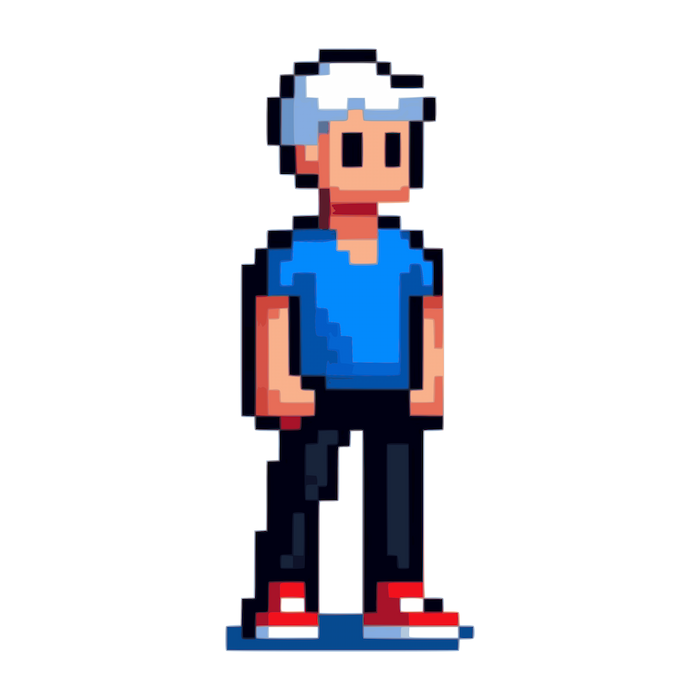
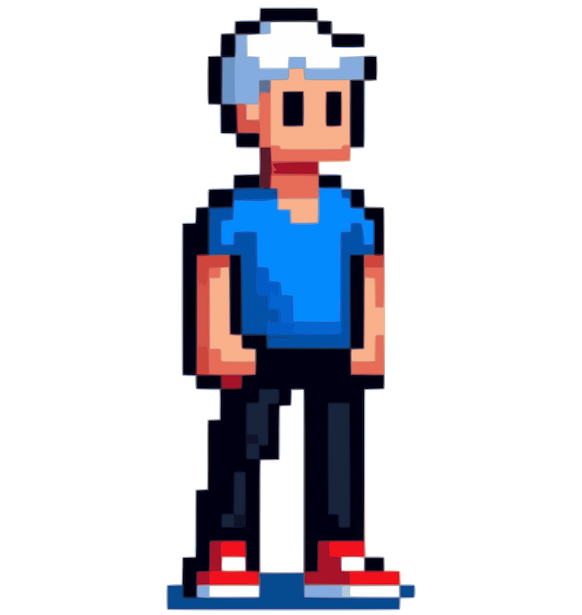
fix: logs

Changed region(s): [[0.2784, 0.0, 0.7113, 1.0]]

diff --git a/src/js/view/ViewBattle.js b/src/js/view/ViewBattle.js
@@ -111,9 +111,13 @@ dealing <span class="accent-attack">${damage}</span> <span class="color-red">dam
         result;
 
       const attackerClass =
-        result.attackerType === 'player' ? 'accent-defence' : 'accent-attack';
+        result.attackerType === 'player'
+          ? 'color-player-text'
+          : 'color-enemy-text';
       const targetClass =
-        result.targetType === 'player' ? 'accent-defence' : 'accent-attack';
+        result.targetType === 'player'
+          ? 'color-player-text'
+          : 'color-enemy-text';
       const logEntry =
         result.attackerType === 'player'
           ? 'player-attack-log'
@@ -121,18 +125,18 @@ dealing <span class="accent-attack">${damage}</span> <span class="color-red">dam
 
       log.classList.add(logEntry);
 
-      let markup = `<span class="damage-pulse ${attackerClass}">${attackerName}</span> attacked <span class="damage-pulse ${targetClass}">${targetName}</span> to <span class="accent-defence">${zone}</span> and ${
+      let markup = `<span class="damage-pulse ${attackerClass}">${attackerName}</span> attacked <span class="damage-pulse ${targetClass}">${targetName}</span> to <span class="highlight-text">${zone}</span> and ${
         isCrit && !blocked
           ? '<span class="color-peach-stroke damage-flash">CRIT</span>'
           : 'dealt'
       } <span class="accent-attack shake">${damage}</span> <span class="color-red damage-shake">damage</span>`;
 
       if (blocked && !isCrit) {
-        markup = `<span class="${attackerClass} damage-pulse">${attackerName}</span> attacked <span class="${targetClass} damage-pulse">${targetName}</span> to <span class="accent-defence">${zone}</span> but <span class="${targetClass} damage-pulse">${targetName}</span> was able to protect his <span class="accent-defence">${zone}</span>`;
+        markup = `<span class="${attackerClass} damage-pulse">${attackerName}</span> attacked <span class="${targetClass} damage-pulse">${targetName}</span> to <span class="highlight-text">${zone}</span> but <span class="${targetClass} damage-pulse">${targetName}</span> was able to protect his <span class="highlight-text">${zone}</span>`;
       }
 
       if (blocked && isCrit) {
-        markup = `<span class="${attackerClass} damage-pulse">${attackerName}</span> attacked <span class="${targetClass} damage-pulse">${targetName}'s</span> <span class="accent-defence">${zone}</span>. 
+        markup = `<span class="${attackerClass} damage-pulse">${attackerName}</span> attacked <span class="${targetClass} damage-pulse">${targetName}'s</span> <span class="highlight-text">${zone}</span>. 
 <span class="damage-pulse ${targetClass}">${targetName}</span> tried to block, but <span class="damage-pulse ${attackerClass}">${attackerName}</span> <span class="color-peach-stroke damage-flash">crit</span> through the block, 
 dealing <span class="accent-attack shake">${damage}</span> <span class="color-red damage-shake">damage!</span>`;
       }
@@ -141,11 +145,11 @@ dealing <span class="accent-attack shake">${damage}</span> <span class="color-re
       // logsEl.appendChild(log);
       logsEl.insertAdjacentElement('afterbegin', log);
 
-      // await this._typeHTML(log, markup, 1);
+      await this._typeHTML(log, markup, 6, 8);
 
       // logsEl.scrollTop = logsEl.scrollHeight;
       document.insertAdjacent;
-      await new Promise(resolve => setTimeout(resolve, 50));
+      await new Promise(resolve => setTimeout(resolve, 20));
     }
   }
 
@@ -154,15 +158,17 @@ dealing <span class="accent-attack shake">${damage}</span> <span class="color-re
     logsEl.innerHTML = '';
   }
 
-  async _typeHTML(element, html, delay = 50) {
+  async _typeHTML(element, html, blockSize = 4, delay = 10) {
     element.innerHTML = '';
     const tempDiv = document.createElement('div');
     tempDiv.innerHTML = html;
 
     const appendNode = async (parent, node) => {
       if (node.nodeType === Node.TEXT_NODE) {
-        for (const char of node.textContent) {
-          parent.append(char);
+        let i = 0;
+        while (i < node.textContent.length) {
+          parent.append(node.textContent.slice(i, i + blockSize));
+          i += blockSize;
           await new Promise(r => setTimeout(r, delay));
         }
       } else if (node.nodeType === Node.ELEMENT_NODE) {
@@ -171,13 +177,13 @@ dealing <span class="accent-attack shake">${damage}</span> <span class="color-re
           el.setAttribute(attr.name, attr.value);
         }
         parent.appendChild(el);
-        for (const child of node.childNodes) {
+        for (const child of Array.from(node.childNodes)) {
           await appendNode(el, child);
         }
       }
     };
 
-    for (const node of tempDiv.childNodes) {
+    for (const node of Array.from(tempDiv.childNodes)) {
       await appendNode(element, node);
     }
   }

diff --git a/src/styles/_typography.scss b/src/styles/_typography.scss
@@ -14,6 +14,15 @@ body {
   color: #28283c;
 }
 
+.current-name,
+.enemy-name {
+  font-size: 2.4rem;
+
+  &--settings {
+    font-size: inherit;
+  }
+}
+
 /* ACCENTS */
 
 .accent-amount {
@@ -35,6 +44,13 @@ body {
   color: var(--color-defence);
   background-color: rgba(255, 255, 255, 0.407);
   box-shadow: 0rem 0.1rem 4rem rgba(0, 0, 0, 0.15);
+}
+
+.color-player-text {
+  color: var(--color-player);
+}
+.color-enemy-text {
+  color: var(--color-enemy);
 }
 
 .color-red {
@@ -74,41 +90,39 @@ body {
   animation: flash 0.4s infinite;
 }
 
-.scan-line {
+.highlight-text {
   position: relative;
-  border: 2px solid #ff9800;
+  display: inline-flex;
+  align-items: center;
+  background: rgba(255, 255, 255, 0.1);
+  color: var(--color-defence);
   overflow: hidden;
 }
-
-.scan-line::after {
+.highlight-text::after {
   content: '';
   position: absolute;
   top: 0;
-  left: -100%;
+  left: 0;
   width: 100%;
   height: 100%;
-  background: linear-gradient(to right, transparent, #fff, transparent);
+  background: repeating-linear-gradient(
+    45deg,
+    rgba(255, 255, 255, 0.05),
+    rgba(255, 255, 255, 0.05) 2px,
+    rgba(255, 255, 255, 0.2) 4px,
+    rgba(255, 255, 255, 0.05) 6px
+  );
   animation: scan 1.5s linear infinite;
+  pointer-events: none;
 }
 
-.glow-border {
-  position: relative;
-  border: 2px solid #ff9800;
-  padding: 10px;
-  border-radius: 8px;
-  overflow: hidden;
-}
-
-.glow-border::before {
-  content: '';
-  position: absolute;
-  top: -50%;
-  left: -50%;
-  width: 200%;
-  height: 200%;
-  background: linear-gradient(90deg, transparent, #fff, transparent);
-  transform: rotate(0deg);
-  animation: border-glow 2s linear infinite;
+@keyframes scan {
+  0% {
+    transform: translateX(-100%);
+  }
+  100% {
+    transform: translateX(100%);
+  }
 }
 
 @keyframes border-glow {

diff --git a/src/js/controller.js b/src/js/controller.js
@@ -75,6 +75,9 @@ class App {
     });
 
     this._btnAttack.addEventListener('click', async () => {
+      if (this._btnAttack.disabled) return;
+      this._btnAttack.disabled = true;
+
       model.getPicksPlayer();
       model.getPicksEnemy(this._enemy.attacks, this._enemy.defences);
 
@@ -103,13 +106,13 @@ class App {
 
       model.checkHealthBars();
       if (model.checkWinner()) {
-        this._btnAttack.disabled = true;
         ViewBattle.displayModalGameEnd(model.checkWinner());
         model.updateStatistic(model.checkWinner());
         ViewPages.renderStatistic(model.state);
         return;
       }
       model.saveGame(this._enemy);
+      this._btnAttack.disabled = false;
     });
 
     this._btnFinish.addEventListener('click', () => {
@@ -119,7 +122,7 @@ class App {
       model.initHealths();
       localStorage.setItem('state', JSON.stringify(model.state));
       this._initFight();
-      this._btnAttack.disabled = false;
+
       ViewBattle.clearLogs();
     });
     /* ------------------------------------- */
@@ -223,6 +226,13 @@ class App {
 
     model.setEnemyHealth(this._enemy.health, this._enemy.initHealth);
     ViewBattle.updateEnemyHealth();
+    this._resetPicks();
+  }
+
+  _resetPicks() {
+    this._radioAttack.forEach(radio => (radio.checked = false));
+    this._checkboxesDefences.forEach(checkbox => (checkbox.checked = false));
+    this._btnAttack.disabled = true;
   }
 }
 

diff --git a/src/styles/components/_battle-panel.scss b/src/styles/components/_battle-panel.scss
@@ -27,6 +27,7 @@
     width: 26rem;
     height: 26rem;
     & img {
+      padding: 1rem;
       width: 100%;
       height: 100%;
       object-fit: contain;
@@ -261,8 +262,8 @@
     transform: scale(1);
   }
   50% {
-    box-shadow: 0rem 0.1rem 4rem rgba(0, 0, 0, 0.25);
-    transform: scale(1.04);
+    // box-shadow: 0rem 0.1rem 4rem rgba(0, 0, 0, 0.25);
+    transform: scale(1.06);
   }
   100% {
     transform: scale(1);
@@ -305,10 +306,10 @@
 }
 
 .player-attack-log {
-  border-left: 4px solid var(--color-defence);
+  border-left: 4px solid var(--color-player);
 }
 .enemy-attack-log {
-  border-left: 4px solid var(--color-attack);
+  border-left: 4px solid var(--color-enemy);
 }
 
 @keyframes logOpacity {

diff --git a/src/styles/_base.scss b/src/styles/_base.scss
@@ -11,6 +11,9 @@
 
   --color-defence: #0b3582;
   --color-attack: #820b0b;
+  --color-player: #c68365;
+  --color-enemy: #8b2ebf;
+  --color-enemy2: #aa00ff;
 }
 
 *,

diff --git a/src/styles/components/_character.scss b/src/styles/components/_character.scss
@@ -45,6 +45,7 @@
     }
 
     & img {
+      padding: 1.5rem;
       width: 100%;
       @include mixin.transition;
       &:hover {

diff --git a/src/styles/components/_choice-avatar.scss b/src/styles/components/_choice-avatar.scss
@@ -62,6 +62,7 @@
     }
 
     & img {
+      padding: 1rem;
       width: 100%;
       height: 100%;
       object-fit: cover;
